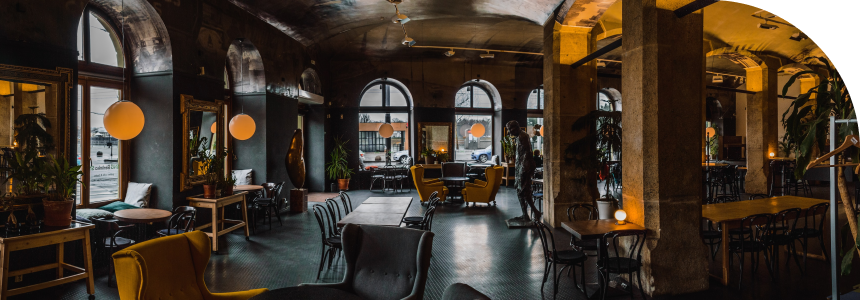
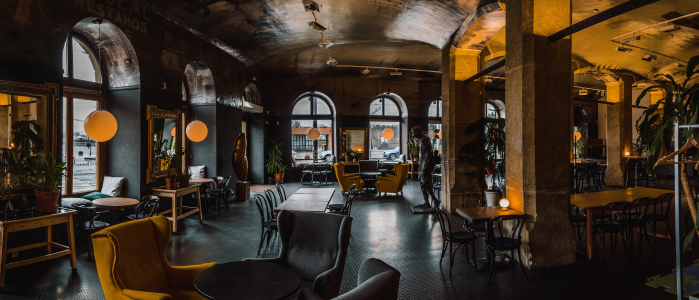
card responsivo

diff --git a/assets/css/style.css b/assets/css/style.css
@@ -88,7 +88,6 @@ header#headerPag>section#navBnt {
 .bannerComprido {
     display: flex;
     min-height: 250px;
-    flex-direction: row;
     column-gap: 15px;
     align-items: center;
 }
@@ -98,12 +97,25 @@ header#headerPag>section#navBnt {
     color: white;
 }
 #bannerLocal.bannerComprido>section {
-    padding:  20px;    
+    padding:  20px;     
 }
 #bannerLocal.bannerComprido>img {
-    width: 623px;
+    width: auto;
     height: 250px;
+    border-radius: 0 150px 0 0;
 }
+
+@media (max-width: 1200px){
+    #bannerLocal.bannerComprido>img {
+        width: 100%;
+        height: auto;
+        border-radius: 0 150px 0 0;
+    }
+    .bannerComprido {
+        border-radius: 0 150px 0 0;
+    }
+}
+
 
 
 /* RODAPÉ */

diff --git a/view/paginaInicial.html b/view/paginaInicial.html
@@ -88,8 +88,8 @@
 
         <!-- BANNER -->
         <!-- Adicionar conteudo -->
-        <div id="bannerLocal" class="bannerComprido">
-            <img class="d-xl-block d-none" src="../assets/image/Background/localCafe.png" alt="">
+        <div id="bannerLocal" class="bannerComprido flex-column flex-xl-row">
+            <img class="img-fluid" src="../assets/image/Background/localCafe.png" alt="">
             <section>
                 <h3>Melhor Café da Região</h3>
                 <p>Lorem ipsum dolor sit amet, consectetur adipisicing elit. Voluptatem aspernatur assumenda culpa esse
